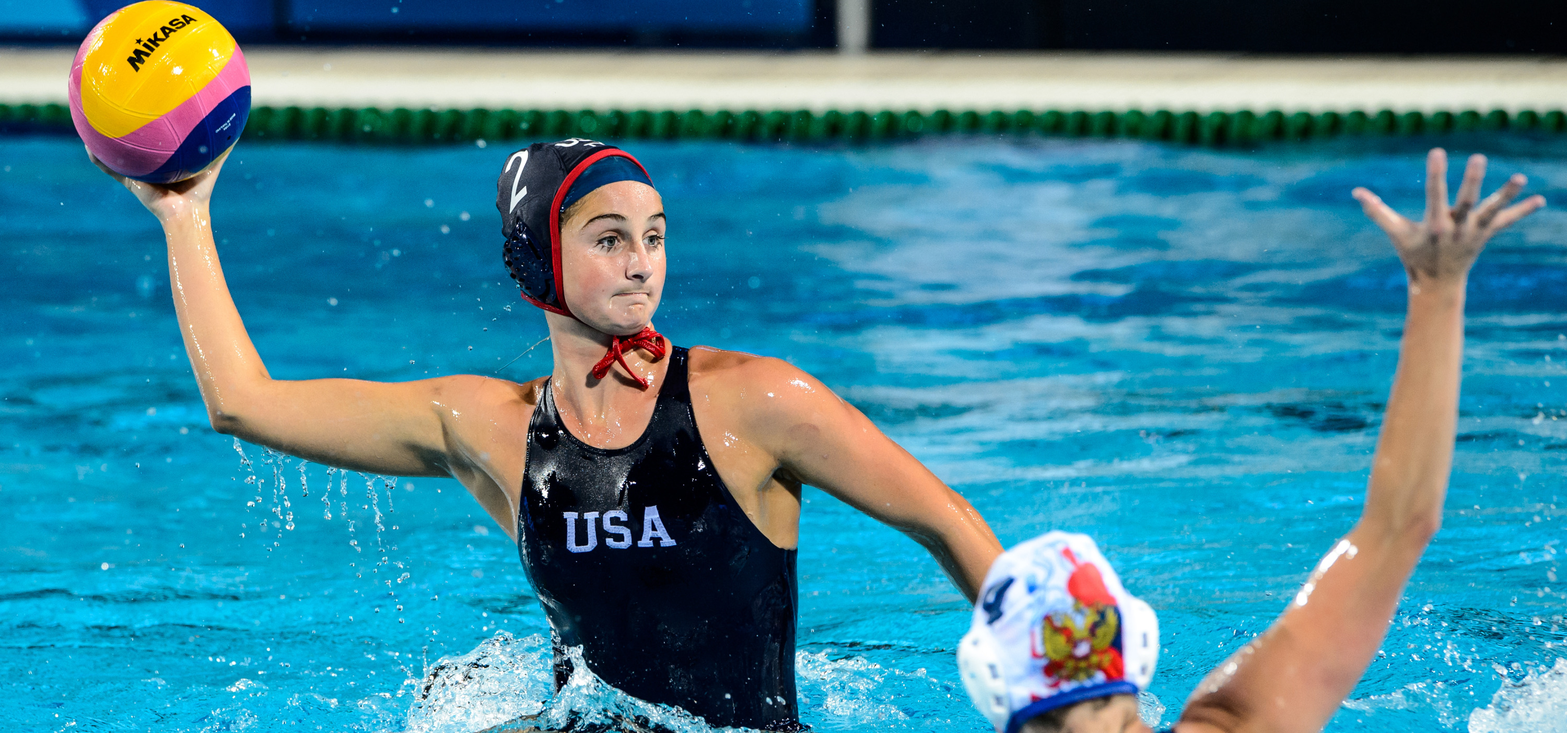
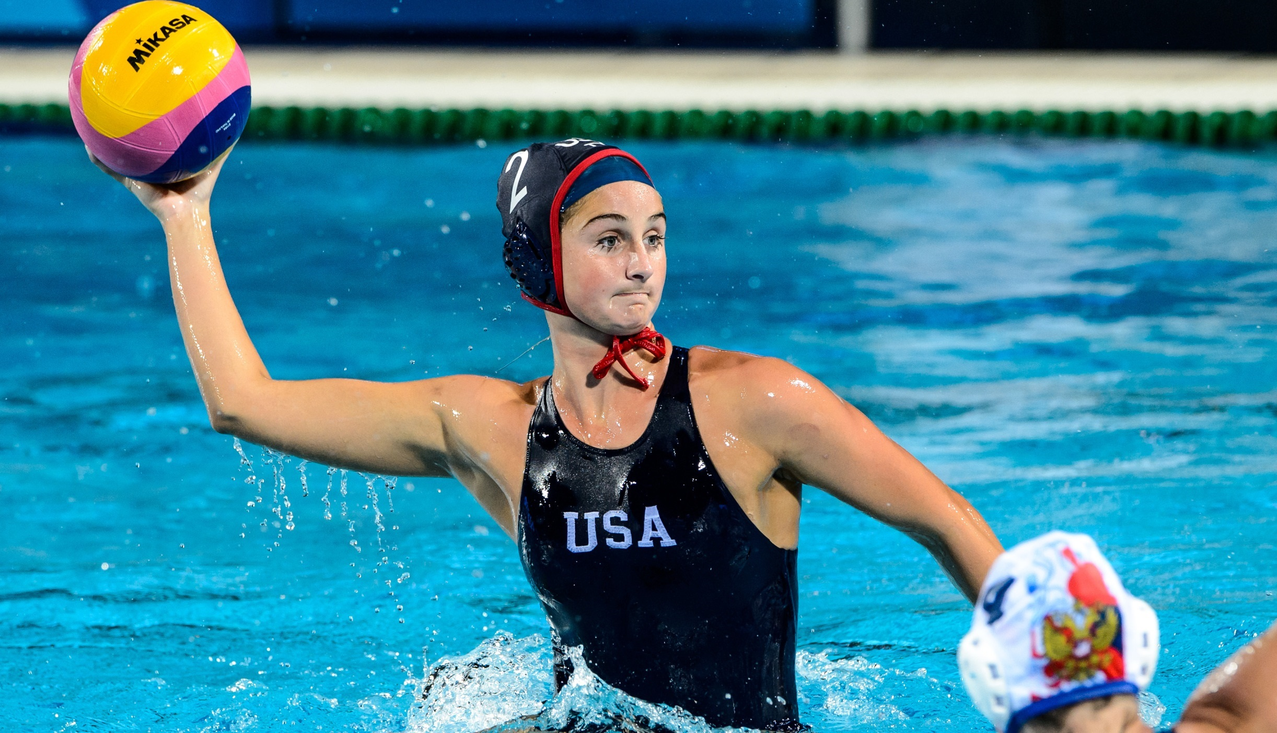
more css

diff --git a/static/css/style.css b/static/css/style.css
@@ -13,15 +13,15 @@ img {
     height: 180px;
 }
 
+.flag img {
+    width: 174px;
+    height: 101px;
+}
+
 
 a {
     color: rgb(0,0,0);
     text-decoration: none;
-}
-
-
-.column h2 {
-    text-align: center;
 }
 
 
@@ -46,6 +46,7 @@ header {
 
 header h1 {
     padding: 10px;
+    padding-top: 0px;
     padding-bottom: 0px;
     text-align: center;
     font-size: 45px;
@@ -90,7 +91,8 @@ header h1 {
     justify-content: center;
     margin: auto;
     overflow: hidden;
-    
+    margin-top: -15px;
+    margin-bottom: -45px;
 }
 
 
@@ -98,7 +100,7 @@ header h1 {
     background-color: rgb(165, 244, 244);
     margin: auto;
     width: 80%;
-    margin-top: 25px;
+    margin-top: 0px;
 }
 
 
@@ -130,22 +132,32 @@ header h1 {
 .subheading {
     display: flex;
     justify-content: center;
+    text-align: center;
     margin-top: 30px;
+    margin-bottom: -10px;
 }
 
+.subheading1 {
+    display: flex;
+    justify-content: center;
+    text-align: center;
+    margin-top: 20px;
+}
 
 .row {
     display: flex;
     flex-wrap: wrap;
     justify-content: center;
     align-items: center;
+    margin-top: 20px;
     > .column {
         padding: 30px;
+        padding-top: 0px;
     }
 }
 
 
-.column h2, h3 {
+.column h2, h3, h4 {
     text-align: center;
 }
 
@@ -183,12 +195,12 @@ header h1 {
 
 .photo img {
     vertical-align: middle;
-    width: 1000px;
-    height: 667px;
+    width: 810px;
+    height: 540px;
 }
 
 .slideshow-container {
-    max-width: 1000px;
+    max-width: 810px;
     position: relative;
     margin: auto;
     margin-top: 80px;
@@ -230,7 +242,7 @@ header h1 {
     padding: 10px 0px;
     position: absolute;
     bottom: 0px;
-    width: 1000px;
+    width: 810px;
     text-align: center;
 }
   
@@ -318,7 +330,7 @@ header h1 {
         margin: 30px;
         margin-right: 300px;
         height: 300px;
-        background-color:rgba(250, 89, 89, 0.777);
+        background-color:rgba(255, 49, 49, 0.777);
         border-radius: 200px;
     }
 }
@@ -334,4 +346,10 @@ footer {
         margin-left: 50px;
         padding-bottom: 100px;
     }
+}
+
+
+.description p {
+    text-align: center;
+    margin-top: 30px;
 }

diff --git a/templates/position.html b/templates/position.html
@@ -6,12 +6,34 @@
 
 {% block content %}
 
-{% for item in position %}
-    <h2> {{item[0]}} Players <br> <img src ="{{item[1]}}"> <br> {{item[2]}} </h2>
-{% endfor %}
+<div class="subheading">
+    {% for item in position %}
+        <h2> {{item[0]}}s <br> <img src ="{{item[1]}}"> <br> </h2>
+</div>
+<div class="description">
+    <p> {{item[2]}} </p>
+    {% endfor %}
+</div>
 
-{% for item in position_players %}
-    <h2> <a href = "/player/{{item[4]}}"> {{item[0]}} {{item[1]}} <br> <img src ="{{item[2]}}"></a> <img src ="{{item[3]}}"> </h2>
-{% endfor %}
+
+<div class="row">
+    {% for item in position_players %}
+    <div class="column">
+        <div class="zoom">
+            <h2><a href = "/player/{{item[4]}}"> {{item[0]}} {{item[1]}} </h2>
+            <div class="image-stack">
+                <div class="image-stack_bottom">
+                <img src="{{item[2]}}">
+                </div>
+                <div class="image-stack_flag">
+                    <img src="{{item[3]}}">
+                </div>
+            </a>
+            <br>
+            </div>
+        </div>
+    </div>
+    {% endfor %}
+</div>
 
 {% endblock %}

diff --git a/templates/tournament.html b/templates/tournament.html
@@ -7,11 +7,23 @@
 {% block content %}
 
 {% for item in event %}
-    <h2> {{item[4]}} {{item[0]}} <br> <img src ="{{item[2]}}"> <br> {{item[1]}} <br> Matches: {{item[5]}} </h2>
+<div class="subheading">
+    <h2> {{item[4]}} {{item[0]}} <br> <img src ="{{item[2]}}"> </h2>
+</div>
+<div class="subheading1">
+    <h3> {{item[1]}} <br> Matches: {{item[5]}} </h3>
+</div>
 {% endfor %}
 
-{% for item in teams %}
-    <h2> {{item[1]}} <br> <a href = "/country/{{item[0]}}"> <img src ="{{item[2]}}"> </a> </h2>
-{% endfor %}
+<div class="subheading"> <h2> Participating Countries: </h2> </div>
+<div class="row">
+    {% for item in teams %}
+    <div class="column">
+        <div class="zoom">
+            <h3> <a href = "/country/{{item[0]}}"> {{item[1]}} <br> <div class="flag"><img src = "{{item[2]}}"/> </a></div> </h3>
+        </div>
+    </div>
+    {% endfor %}
+</div>
 
 {% endblock %}

diff --git a/templates/country.html b/templates/country.html
@@ -20,7 +20,7 @@
     {% for item in national_team %}
     <div class="column">
         <div class="zoom">
-            <h2> <a href = "/player/{{item[4]}}"> {{item[0]}} {{item[1]}} <br> <img src = "{{item[2]}}"> </a> </h2>
+            <h3> <a href = "/player/{{item[4]}}"> {{item[0]}} {{item[1]}} <br> <img src = "{{item[2]}}"> </a> </h3>
         </div>
     </div>
     {% endfor %}
@@ -31,7 +31,7 @@
     {% for item in former_team %}
     <div class="column">
         <div class="zoom">
-            <h2> <a href = "/player/{{item[4]}}"> {{item[0]}} {{item[1]}} <br> <img src ="{{item[2]}}"> </a> </h2>
+            <h3> <a href = "/player/{{item[4]}}"> {{item[0]}} {{item[1]}} <br> <img src ="{{item[2]}}"> </a> </h3>
         </div>
     </div>
     {% endfor %}

diff --git a/templates/tournaments.html b/templates/tournaments.html
@@ -2,11 +2,17 @@
 {% block content %}
 
 
-{% for tournament in tournaments %}
-    <h2>{{tournament[0][1]}} <br> {{tournament[0][2]}} <br> <img src = "{{tournament[0][3]}}"/> </h2>
-    {% for year in tournament %}
-    <a href = "/tournament/{{tournament[0][4]}}/{{year[0]}}"> {{year[0]}} </a> <br>
+<div class="row">
+    {% for tournament in tournaments %}
+    <div class="column">
+        <h2> {{tournament[0][1]}} <br> <img src = "{{tournament[0][3]}}"/> </h2>
+        {% for year in tournament %}
+        <div class="zoom">
+            <h3> <a href = "/tournament/{{tournament[0][4]}}/{{year[0]}}"> {{year[0]}} </a> <br> </h3>
+        </div>
+        {% endfor %}
+    </div>
     {% endfor %}
-{% endfor %}
+</div>
 
 {% endblock %}

diff --git a/templates/players.html b/templates/players.html
@@ -5,7 +5,7 @@
     {% for item in ranked_players %}
     <div class="column">
         <div class="zoom">
-            <h2><a href = "/player/{{item[0]}}"> {{item[1]}} {{item[2]}} </h2> <h3> Female World #{{item[4]}} </h3>
+            <h3><a href = "/player/{{item[0]}}"> {{item[1]}} {{item[2]}} </h3> <h4> Female World #{{item[4]}} </h4>
             <div class="image-stack">
                 <div class="image-stack_bottom">
                 <img src="{{item[3]}}">

diff --git a/templates/countries.html b/templates/countries.html
@@ -6,7 +6,7 @@
     {% for item in countries %}
     <div class="column">
         <div class="zoom">
-            <h2> <a href = "/country/{{item[0]}}"> {{item[1]}} <br> <img src = "{{item[2]}}"/> </a> </h2>
+            <h3> <a href = "/country/{{item[0]}}"> {{item[1]}} <br> <div class="flag"><img src = "{{item[2]}}"/> </div></a> </h3>
         </div>
     </div>
     {% endfor %}

diff --git a/templates/player.html b/templates/player.html
@@ -9,7 +9,11 @@
 {% for item in player %}
 <h2>
     <div class="subheading">
-        {{item[0]}} {{item[1]}} <br>
+        <div class="row">
+            <div class="column">
+                {{item[0]}} {{item[1]}} <br>
+            </div>
+        </div>
     </div>
 
     <div class="row">

diff --git a/routes.py b/routes.py
@@ -4,16 +4,8 @@ import sqlite3
 app = Flask(__name__)
 
 
-# use this function in the other functions to connect to the database
-#def connect(query):
-    #conn = sqlite3.connect('waterpolo.db')
-    #cur = conn.cursor()
-    #cur.execute(query)
-    #global result
-    #result = cur.fetchall()
-    #return result
-
 def connect(query, id, year):
+#   use this function in the other functions to connect to the database
     conn = sqlite3.connect("waterpolo.db")
     cur = conn.cursor()
     if id is not None and year is None:
@@ -26,7 +18,7 @@ def connect(query, id, year):
     return results
 
 
-@app.route('/')  #  app.route maps the URL to this function
+@app.route('/') #  app.route maps the URL to this function
 #  ending to URL link that displays this 'home' function
 def home():
     # returns the corresponding html template
@@ -66,21 +58,17 @@ def indiv_country(id):
 
 @app.route('/players')
 def players():
-    conn = sqlite3.connect('waterpolo.db')
-    cur = conn.cursor()
     # SQL query for getting the top 10 female players in the world
-    cur.execute('SELECT Player.id, Player.first_name, Player.last_name, \
-                Player.image, Player.world_ranking, Country.flag FROM Player \
-                Join Country ON Player.country_id=Country.id \
-                WHERE Player.world_ranking IS NOT NULL \
-                ORDER BY Player.world_ranking asc;')
-    ranked_players = cur.fetchall()
+    ranked_players = connect('SELECT Player.id, Player.first_name, Player.last_name, \
+                             Player.image, Player.world_ranking, Country.flag FROM Player \
+                             Join Country ON Player.country_id=Country.id \
+                             WHERE Player.world_ranking IS NOT NULL \
+                             ORDER BY Player.world_ranking asc;', None, None)
     # SQL query for getting the rest of the players in the database
-    cur.execute('SELECT Player.id, Player.first_name, Player.last_name, \
-                Player.image, Country.flag FROM Player \
-                Join Country ON Player.country_id=Country.id \
-                WHERE Player.world_ranking IS NULL;')
-    players = cur.fetchall()
+    players = connect('SELECT Player.id, Player.first_name, Player.last_name, \
+                      Player.image, Country.flag FROM Player \
+                      Join Country ON Player.country_id=Country.id \
+                      WHERE Player.world_ranking IS NULL;', None, None)
     return render_template("players.html", ranked_players=ranked_players, 
                            players=players, title="Women's Waterpolo")
 
@@ -123,39 +111,42 @@ def tournaments():
 def indiv_tournament(name_id, year):
     conn = sqlite3.connect('waterpolo.db')
     cur = conn.cursor()
-    cur.execute('SELECT TournamentName.tournament_name, TournamentName.description, TournamentName.logo, \
-                Tournament.name_id, Tournament.year, Tournament.matches FROM Tournament \
+    cur.execute('SELECT TournamentName.tournament_name, \
+                TournamentName.description, TournamentName.logo, \
+                Tournament.name_id, Tournament.year, Tournament.matches \
+                FROM Tournament \
                 JOIN TournamentName ON Tournament.name_id=TournamentName.id \
-                WHERE Tournament.name_id = ? AND Tournament.year = ?', (name_id, year,))
+                WHERE Tournament.name_id = ? AND Tournament.year = ?',
+                (name_id, year,))
     event = cur.fetchall()
     if event == []:
         abort(404)
-    cur.execute('SELECT Country.id, Country.country, Country.flag, Tournament.name_id, \
-                Tournament.year FROM CountryTournament \
+    cur.execute('SELECT Country.id, Country.country, Country.flag, \
+                Tournament.name_id, Tournament.year FROM CountryTournament \
                 JOIN Country ON CountryTournament.country_id=Country.id \
                 JOIN Tournament ON CountryTournament.tournament_id=Tournament.id \
-                WHERE Tournament.name_id = ? AND Tournament.year = ?', (name_id, year,))
+                WHERE Tournament.name_id = ? AND Tournament.year = ?',
+                (name_id, year,))
     teams = cur.fetchall()
-    return render_template("tournament.html", event=event, teams=teams, 
+    return render_template("tournament.html", event=event, teams=teams,
                            title="Women's Waterpolo")
 #  there is a data integrety issue
 
 
 @app.route('/positions')
 def positions():
-    conn = sqlite3.connect('waterpolo.db')
-    cur = conn.cursor()
     # selects all the information from the Position table
-    cur.execute('SELECT id, position, image, pos_copyright FROM Position;')
-    positions = cur.fetchall()
-    return render_template("positions.html", positions=positions, title="Women's Waterpolo")
+    positions = connect('SELECT id, position, image, pos_copyright \
+                        FROM Position;', None, None)
+    return render_template("positions.html", positions=positions,
+                           title="Women's Waterpolo")
 
 
 @app.route('/position/<int:id>')
 def indiv_position(id):
     conn = sqlite3.connect('waterpolo.db')
     cur = conn.cursor()
-    cur.execute('SELECT Position.position, Position.image, Position.pos_copyright FROM Position \
+    cur.execute('SELECT Position.position, Position.image, Position.description FROM Position \
                 WHERE Position.id = ?', (id,))
     position = cur.fetchall()
     if position == []:
